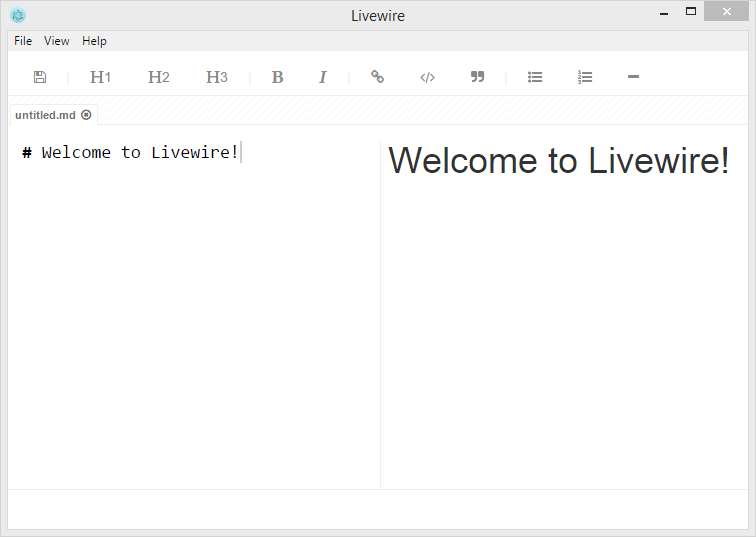
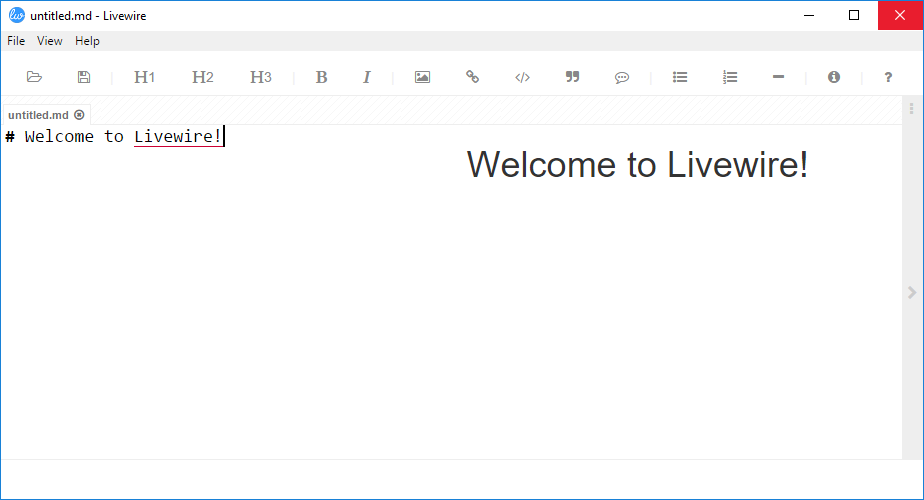
update readme with new screenshot and download link

diff --git a/readme.md b/readme.md
@@ -17,11 +17,16 @@ A simple web content editor built with [Electron](electron.atom.io).
 
 For more information make sure to read the [wiki](https://github.com/craigshoemaker/livewire/wiki).
 
-## Installing and Running the App
+		  
+## Windows Installer		
+ 
+ [You can download the v1.1 Windows 64-bit installer here](http://download.infragistics.com/users/livewire/Livewire-1.1-win-64.msi).
 
-If you do not have Node.js installed, download the installer [here](https://nodejs.org/).
+## Running the App from Source
 
-Once Node.js is installed, then open a command prompt and install Bower (if you don't already have it installed) by executing this command:
+First, make sure you have [Node.js](https://nodejs.org/) and [Git](https://git-scm.com/downloads) installed on your machine.
+
+Then open a command prompt and install Bower (if you don't already have it installed) by executing this command:
 
     $ npm install -g bower
 
@@ -29,7 +34,7 @@ After Bower is installed, switch directories to where you want to download Livew
 
     $ git clone https://github.com/infragistics/livewire.git
     
-Next, install gulp:
+Next, install Gulp:
 
     $ npm install --g gulp
     
